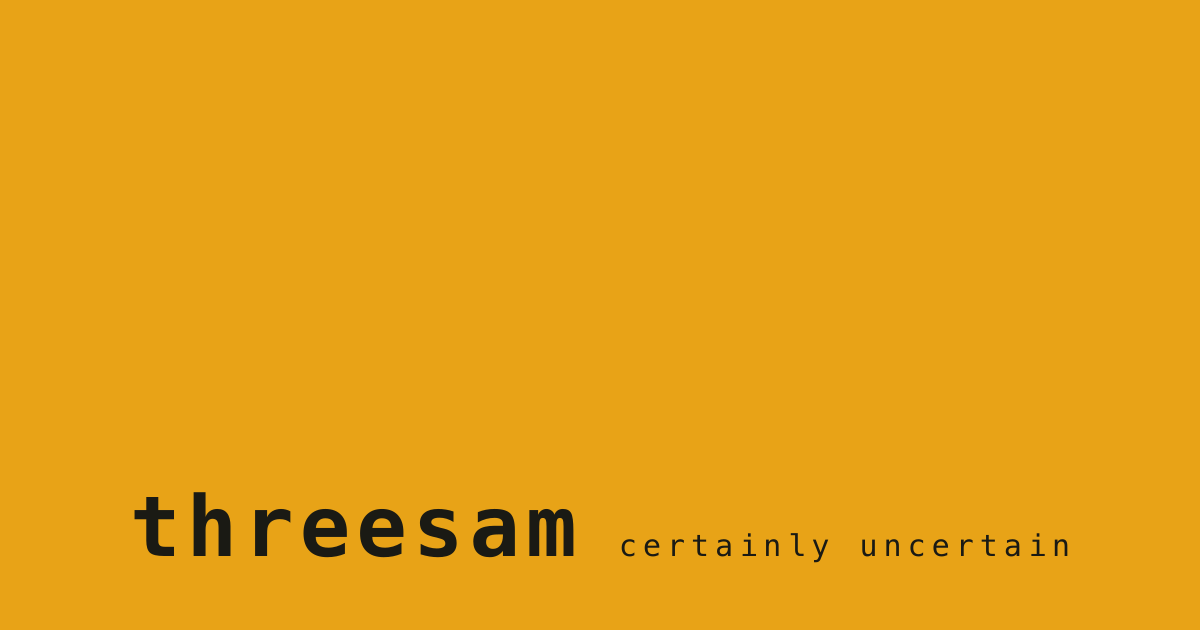
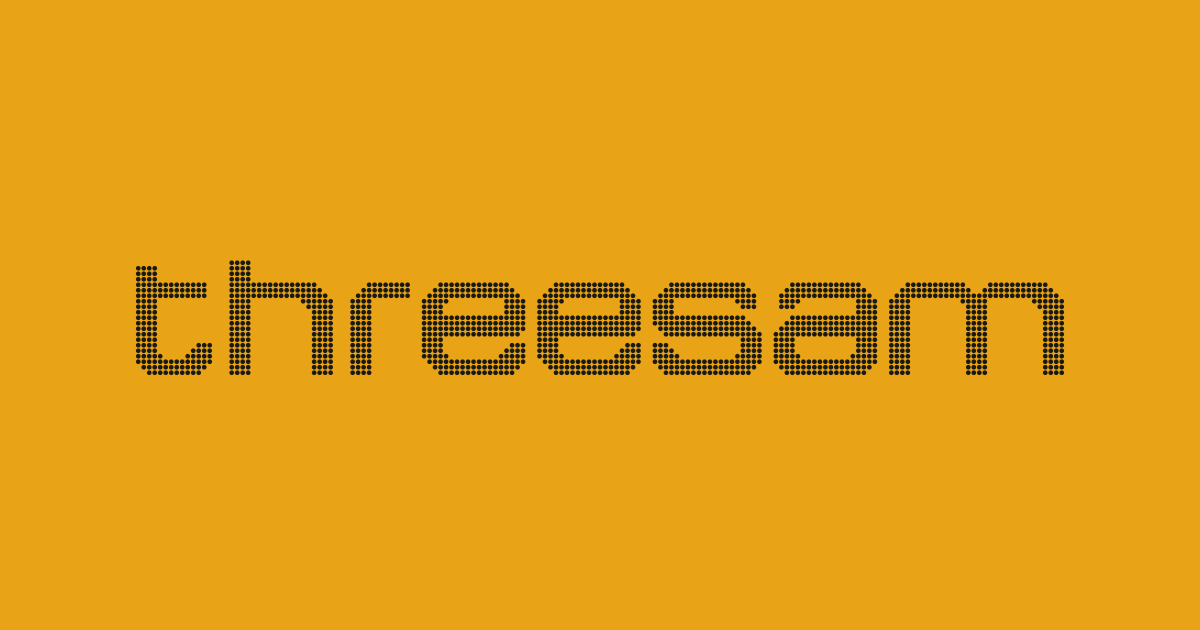
feat(brand): Michroma headings + dot-matrix wordmark
Michroma becomes the heading face, and the "t" of the homepage wordmark
becomes the dot-matrix glyph the OG card is built from.

- --font-display token (Michroma, ui-monospace fallback) applied to the six
  page-title h1s. The fallback is mono, not sans: Michroma's proportions sit
  closer to the mono cut already in use, so a font failure degrades toward the
  old look instead of reflowing hard.
- Dropped font-bold at those call sites — Michroma ships a single 400 weight,
  so font-bold triggers faux-bold and smears the strokes. .font-display sets
  font-synthesis-weight: none so it can't creep back in.
- WordmarkT.svelte: the "t" as dots, extracted from the finished 171x24 grid
  rather than re-rastered, so the letter and static/assets/threesam-wordmark.svg
  are the same object at different crops. Inline-block on the baseline with a
  -0.011em bottom margin — .letter is vertical-align: top with overflow: hidden,
  so a block SVG would top-align instead of sitting on the baseline.
- Both wordmark easter eggs survive: the glyph keeps .letter so it collapses
  with the rest on the snake sequence, and an sr-only "t" keeps the <h1>
  reading "threesam".
- generate-home-og.mjs composites the wordmark SVG instead of setting text,
  which sidesteps librsvg resolving fonts through fontconfig (it cannot load a
  font file by path — the reason this card was stuck on ui-monospace).

Visual baselines are intentionally NOT re-blessed; this is a deliberate
[…]

Changed region(s): [[0.0925, 0.3921, 0.8942, 0.6032], [0.0925, 0.7841, 0.4933, 0.9048], [0.5242, 0.8444, 0.8942, 0.8746]]

diff --git a/src/lib/components/frame/WordmarkT.svelte b/src/lib/components/frame/WordmarkT.svelte
@@ -1,0 +1,35 @@
+<!--
+  The "t" of the threesam wordmark, as dots.
+
+  Extracted from the finished 171×24 wordmark grid rather than re-rastered, so
+  its dot size and grid phase match static/assets/threesam-wordmark.svg exactly
+  — the letter and the full mark are the same object at different crops.
+
+  Sized in em off the parent's font-size: the viewBox's 24 rows are the whole
+  word's ink height, which Michroma reports as 0.761em, and the negative bottom
+  margin drops the box the 0.011em the word sits below the baseline so the glyph
+  lands on the same baseline as the text letters beside it.
+
+  Decorative here — BrandSignoff supplies the letter to the accessible name.
+-->
+<svg
+  class="glyph"
+  viewBox="0 0 14 24"
+  fill="currentColor"
+  aria-hidden="true"
+  focusable="false"
+><circle cx="0.5" cy="3.5" r="0.43"/><circle cx="1.5" cy="3.5" r="0.43"/><circle cx="2.5" cy="3.5" r="0.43"/><circle cx="3.5" cy="3.5" r="0.43"/><circle cx="0.5" cy="4.5" r="0.43"/><circle cx="1.5" cy="4.5" r="0.43"/><circle cx="2.5" cy="4.5" r="0.43"/><circle cx="3.5" cy="4.5" r="0.43"/><circle cx="0.5" cy="5.5" r="0.43"/><circle cx="1.5" cy="5.5" r="0.43"/><circle cx="2.5" cy="5.5" r="0.43"/><circle cx="3.5" cy="5.5" r="0.43"/><circle cx="0.5" cy="6.5" r="0.43"/><circle cx="1.5" cy="6.5" r="0.43"/><circle cx="2.5" cy="6.5" r="0.43"/><circle cx="3.5" cy="6.5" r="0.43"/><circle cx="4.5" cy="6.5" r="0.43"/><circle cx="5.5" cy="6.5" r="0.43"/><circle cx="6.5" cy="6.5" r="0.43"/><circle cx="7.5" cy="6.5" r="0.43"/><circle cx="8.5" cy="6.5" r="0.43"/><circle cx="9.5" cy="6.5" r="0.43"/><circle cx="10.5" cy="6.5" r="0.43"/><circle cx="11.5" cy="6.5" r="0.43"/><circle cx="12.5" cy="6.5" r="0.43"/><circle cx="0.5" cy="7.5" r="0.43"/><circle cx="1.5" cy="7.5" r="0.43"/><circle cx="2.5" cy="7.5" r="0.43"/><circle cx="3.5" cy="7.5" r="0.43"/><circle cx="4.5" cy="7.5" r="0.43"/><circle cx="5.5" cy="7.5" r="0.43"/><circle cx="6.5" cy="7.5" r="0.43"/><circle cx="7.5" cy="7.5" r="0.43"/><circle cx="8.5" cy="7.5" r="0.43"/><circle cx="9.5" cy="7.5" r="0.43"/><circle cx="10.5" cy="7.5" r="0.43"/><circle cx="11.5" cy="7.5" r="0.43"/><circle cx="12.5" cy="7.5" r="0.43"/><circle cx="0.5" cy="8.5" r="0.43"/><circle cx="1.5" cy="8.5" r="0.43"/><circle cx="2.5" cy="8.5" r="0.43"/><circle cx="3.5" cy="8.5" r="0.43"/><circle cx="4.5" cy="8.5" r="0.43"/><circle cx="5.5" cy="8.5" r="0.43"/><circle cx="6.5" cy="8.5" r="0.43"/><circle cx="7.5" cy="8.5" r="0.43"/><circle cx="8.5" cy="8.5" r="0.43"/><circle cx="9.5" cy="8.5" r="0.43"/><circle cx="10.5" cy="8.5" r="0.43"/><circle cx="11.5" cy="8.5" r="0.43"/><circle cx="12.5" cy="8.5" r="0.43"/><circle cx="0.5" cy="9.5" r="0.43"/><circle cx="1.5" cy="9.5" r="0.43"/><circle cx="2.5" cy="9.5" r="0.43"/><circle cx="3.5" cy="9.5" r="0.43"/><circle cx="0.5" cy="10.5" r="0.43"/><circle cx="1.5" cy="10.5" r="0.43"/><circle cx="2.5" cy="10.5" r="0.43"/><circle cx="3.5" cy="10.5" r="0.43"/><circle cx="0.5" cy="11.5" r="0.43"/><circle cx="1.5" cy="11.5" r="0.43"/><circle cx="2.5" cy="11.5" r="0.43"/><circle cx="3.5" cy="11.5" r="0.43"/><circle cx="0.5" cy="12.5" r="0.43"/><circle cx="1.5" cy="12.5" r="0.43"/><circle cx="2.5" cy="12.5" r="0.43"/><circle cx="3.5" cy="12.5" r="0.43"/><circle cx="0.5" cy="13.5" r="0.43"/><circle cx="1.5" cy="13.5" r="0.43"/><circle cx="2.5" cy="13.5" r="0.43"/><circle cx="3.5" cy="13.5" r="0.43"/><circle cx="0.5" cy="14.5" r="0.43"/><circle cx="1.5" cy="14.5" r="0.43"/><circle cx="2.5" cy="14.5" r="0.43"/><circle cx="3.5" cy="14.5" r="0.43"/><circle cx="0.5" cy="15.5" r="0.43"/><circle cx="1.5" cy="15.5" r="0.43"/><circle cx="2.5" cy="15.5" r="0.43"/><circle cx="3.5" cy="15.5" r="0.43"/><circle cx="0.5" cy="16.5" r="0.43"/><circle cx="1.5" cy="16.5" r="0.43"/><circle cx="2.5" cy="16.5" r="0.43"/><circle cx="3.5" cy="16.5" r="0.43"/><circle cx="0.5" cy="17.5" r="0.43"/><circle cx="1.5" cy="17.5" r="0.43"/><circle cx="2.5" cy="17.5" r="0.43"/><circle cx="3.5" cy="17.5" r="0.43"/><circle cx="11.5" cy="17.5" r="0.43"/><circle cx="12.5" cy="17.5" r="0.43"/><circle cx="13.5" cy="17.5" r="0.43"/><circle cx="0.5" cy="18.5" r="0.43"/><circle cx="1.5" cy="18.5" r="0.43"/><circle cx="2.5" cy="18.5" r="0.43"/><circle cx="3.5" cy="18.5" r="0.43"/><circle cx="10.5" cy="18.5" r="0.43"/><circle cx="11.5" cy="18.5" r="0.43"/><circle cx="12.5" cy="18.5" r="0.43"/><circle cx="13.5" cy="18.5" r="0.43"/><circle cx="0.5" cy="19.5" r="0.43"/><circle cx="1.5" cy="19.5" r="0.43"/><circle cx="2.5" cy="19.5" r="0.43"/><circle cx="3.5" cy="19.5" r="0.43"/><circle cx="4.5" cy="19.5" r="0.43"/><circle cx="9.5" cy="19.5" r="0.43"/><circle cx="10.5" cy="19.5" r="0.43"/><circle cx="11.5" cy="19.5" r="0.43"/><circle cx="12.5" cy="19.5" r="0.43"/><circle cx="13.5" cy="19.5" r="0.43"/><circle cx="0.5" cy="20.5" r="0.43"/><circle cx="1.5" cy="20.5" r="0.43"/><circle cx="2.5" cy="20.5" r="0.43"/><circle cx="3.5" cy="20.5" r="0.43"/><circle cx="4.5" cy="20.5" r="0.43"/><circle cx="5.5" cy="20.5" r="0.43"/><circle cx="6.5" cy="20.5" r="0.43"/><circle cx="7.5" cy="20.5" r="0.43"/><circle cx="8.5" cy="20.5" r="0.43"/><circle cx="9.5" cy="20.5" r="0.43"/><circle cx="10.5" cy="20.5" r="0.43"/><circle cx="11.5" cy="20.5" r="0.43"/><circle cx="12.5" cy="20.5" r="0.43"/><circle cx="13.5" cy="20.5" r="0.43"/><circle cx="1.5" cy="21.5" r="0.43"/><circle cx="2.5" cy="21.5" r="0.43"/><circle cx="3.5" cy="21.5" r="0.43"/><circle cx="4.5" cy="21.5" r="0.43"/><circle cx="5.5" cy="21.5" r="0.43"/><circle cx="6.5" cy="21.5" r="0.43"/><circle cx="7.5" cy="21.5" r="0.43"/><circle cx="8.5" cy="21.5" r="0.43"/><circle cx="9.5" cy="21.5" r="0.43"/><circle cx="10.5" cy="21.5" r="0.43"/><circle cx="11.5" cy="21.5" r="0.43"/><circle cx="12.5" cy="21.5" r="0.43"/><circle cx="2.5" cy="22.5" r="0.43"/><circle cx="3.5" cy="22.5" r="0.43"/><circle cx="4.5" cy="22.5" r="0.43"/><circle cx="5.5" cy="22.5" r="0.43"/><circle cx="6.5" cy="22.5" r="0.43"/><circle cx="7.5" cy="22.5" r="0.43"/><circle cx="8.5" cy="22.5" r="0.43"/><circle cx="9.5" cy="22.5" r="0.43"/><circle cx="10.5" cy="22.5" r="0.43"/><circle cx="11.5" cy="22.5" r="0.43"/></svg>
+
+<style>
+  .glyph {
+    /* inline-block on the baseline, not block: an inline-block's baseline is
+       its bottom margin edge, so the negative bottom margin drops the box the
+       0.011em the word's ink sits below the baseline and the dots land on the
+       same baseline as the Michroma letters next to it. */
+    display: inline-block;
+    vertical-align: baseline;
+    height: 0.761em;
+    width: auto;
+    margin-bottom: -0.011em;
+  }
+</style>

diff --git a/src/lib/components/frame/BrandSignoff.svelte b/src/lib/components/frame/BrandSignoff.svelte
@@ -15,6 +15,7 @@
   import { building } from '$app/environment';
   import { gameMode } from '$lib/game-mode.svelte';
   import { diveMode, diveUrl } from '$lib/dive-mode.svelte';
+  import WordmarkT from './WordmarkT.svelte';
 
   let {
     heading = false,
@@ -36,7 +37,11 @@
   // exempt at any size. When game mode is active the original t/h/r/e/e/a/m
   // collapse (opacity 0, max-width 0) so the "s" slides to the start, then
   // the n/a/k/e tail expands.
-  const PRE_LETTERS = ['t', 'h', 'r', 'e', 'e'];
+  // The "t" is not in this list — it renders as WordmarkT, the dot-matrix
+  // glyph lifted from the full wordmark, with an sr-only "t" beside it so the
+  // <h1> still reads "threesam". It keeps the .letter class, so it collapses
+  // with the others when the snake sequence runs.
+  const PRE_LETTERS = ['h', 'r', 'e', 'e'];
   // the "a" between s and m is its own span: hovering it morphs the glyph
   // into the alien, and a click starts space invaders (homepage only).
   // Ready only while the letter is actually visible — during game/message
@@ -78,14 +83,15 @@
 
 <svelte:element
   this={tag}
-  class="wordmark absolute bottom-6 left-6 z-50 font-mono text-3xl font-bold tracking-meta {color} md:bottom-8 md:left-8 md:text-4xl"
+  class="wordmark absolute bottom-6 left-6 z-50 font-display text-3xl tracking-meta {color} md:bottom-8 md:left-8 md:text-4xl"
   class:is-game={isSnake}
   class:wordmark-hidden={gameMode.wordmarkSlotOccupied}
   class:diving-away={divingOut}
 >
-  {#each PRE_LETTERS as l, i (`pre-${i}`)}
-    <span class="letter">{l}</span>
-  {/each}<!-- svelte-ignore a11y_no_noninteractive_tabindex --><span
+  <span class="letter t-letter"
+    ><span class="sr-only">t</span><WordmarkT /></span
+  >{#each PRE_LETTERS as l, i (`pre-${i}`)}<span class="letter">{l}</span
+    >{/each}<!-- svelte-ignore a11y_no_noninteractive_tabindex --><span
     class="letter s-letter"
     class:clickable={egGame && !active}
     onclick={egGame ? () => { if (active) { gameMode.stop(); } else { gameMode.start('snake'); } } : undefined}

diff --git a/src/app.css b/src/app.css
@@ -23,6 +23,12 @@
   --font-sans: "Recursive Variable", Arial, Helvetica, sans-serif;
   --font-mono: "Recursive Variable", monospace;
   --font-essay: "Epilogue", Georgia, serif;
+  /* Heading face. Michroma is wide and single-weight, so it earns its keep on
+     h1/h2 and nothing smaller — body and UI stay on Recursive. The fallback
+     stack is monospace, not sans: Michroma's proportions are closer to the
+     mono cut already in use, so a load failure degrades to the old look
+     rather than a jarring reflow. */
+  --font-display: "Michroma", ui-monospace, monospace;
   /* Letter-spacing scale used across uppercase labels/heroes/pills. These
      are the values that recurred as `tracking-[0.NNem]` literals; named
      here so the call sites read intent, not magic numbers. */
@@ -89,6 +95,14 @@ body {
   color: var(--foreground);
   font-family: "Recursive Variable", Arial, Helvetica, sans-serif;
   font-variation-settings: "MONO" 0, "CASL" 0, "slnt" 0;
+}
+
+/* Michroma is a single 400 weight. Any inherited font-weight would make the
+   browser synthesise a bold, which smears its wide geometric strokes into
+   mud at heading sizes — suppress synthesis rather than relying on every
+   call site remembering not to ask for bold. */
+.font-display {
+  font-synthesis-weight: none;
 }
 
 /* Tailwind's font-mono utility points at Recursive too — flipping the

diff --git a/src/routes/+layout.svelte b/src/routes/+layout.svelte
@@ -7,6 +7,9 @@
   import '@fontsource-variable/recursive/wght.css';
   import '@fontsource-variable/recursive/mono.css';
   import '@fontsource-variable/recursive/casl.css';
+  // Michroma — the heading face (--font-display). Single weight, latin only,
+  // so it's one small file for every h1/h2 on the site.
+  import '@fontsource/michroma/latin-400.css';
   // Epilogue (used inside .tier-essay on /self and /dad) is imported by
   // those routes directly so the other 7 pages don't ship 3 unused
   // weight files. See src/lib/fonts/epilogue.ts.

diff --git a/src/routes/dad/+page.svelte b/src/routes/dad/+page.svelte
@@ -32,7 +32,7 @@
       <AsciiImage srcs={["/assets/dad-1.webp"]} class="h-full w-full" inverted />
     </LazyMount>
     <h1
-      class="pointer-events-none absolute bottom-6 left-6 z-10 font-mono text-3xl font-bold uppercase tracking-base text-white md:bottom-18 md:left-18 md:text-8xl"
+      class="pointer-events-none absolute bottom-6 left-6 z-10 font-display text-3xl uppercase tracking-base text-white md:bottom-18 md:left-18 md:text-8xl"
     >
       dad
     </h1>

diff --git a/src/routes/self/+page.svelte b/src/routes/self/+page.svelte
@@ -146,7 +146,7 @@
     />
   {/if}
   <h1
-    class="pointer-events-none absolute bottom-6 left-6 z-10 font-mono text-3xl font-bold uppercase tracking-base text-white md:bottom-20 md:left-20 md:text-8xl"
+    class="pointer-events-none absolute bottom-6 left-6 z-10 font-display text-3xl uppercase tracking-base text-white md:bottom-20 md:left-20 md:text-8xl"
   >
     self
   </h1>

diff --git a/src/routes/thoughts/+page.svelte b/src/routes/thoughts/+page.svelte
@@ -114,7 +114,7 @@
 
   <header class="relative z-10 mx-auto mb-12 max-w-7xl md:mb-18">
     <h1
-      class="font-mono text-4xl font-bold uppercase tracking-hero text-white md:text-7xl"
+      class="font-display text-4xl uppercase tracking-hero text-white md:text-7xl"
     >
       thoughts
     </h1>

diff --git a/src/routes/benny/+page.svelte b/src/routes/benny/+page.svelte
@@ -49,7 +49,7 @@
         remembering
       </h2>
       <h1
-        class="mt-3 font-mono text-3xl font-bold uppercase tracking-base text-white md:text-6xl"
+        class="mt-3 font-display text-3xl uppercase tracking-base text-white md:text-6xl"
       >
         102 Jackson Street
       </h1>

diff --git a/src/routes/thoughts/certainly-uncertain/+page.svelte b/src/routes/thoughts/certainly-uncertain/+page.svelte
@@ -38,7 +38,7 @@
         // thought
       </p>
       <h1
-        class="font-mono text-4xl font-bold uppercase tracking-base text-white md:text-6xl"
+        class="font-display text-4xl uppercase tracking-base text-white md:text-6xl"
       >
         certainly uncertain
       </h1>

diff --git a/src/routes/thoughts/the-peach/+page.svelte b/src/routes/thoughts/the-peach/+page.svelte
@@ -41,7 +41,7 @@
         // thought
       </p>
       <h1
-        class="font-mono text-4xl font-bold uppercase tracking-base text-white md:text-6xl"
+        class="font-display text-4xl uppercase tracking-base text-white md:text-6xl"
       >
         the peach
       </h1>
